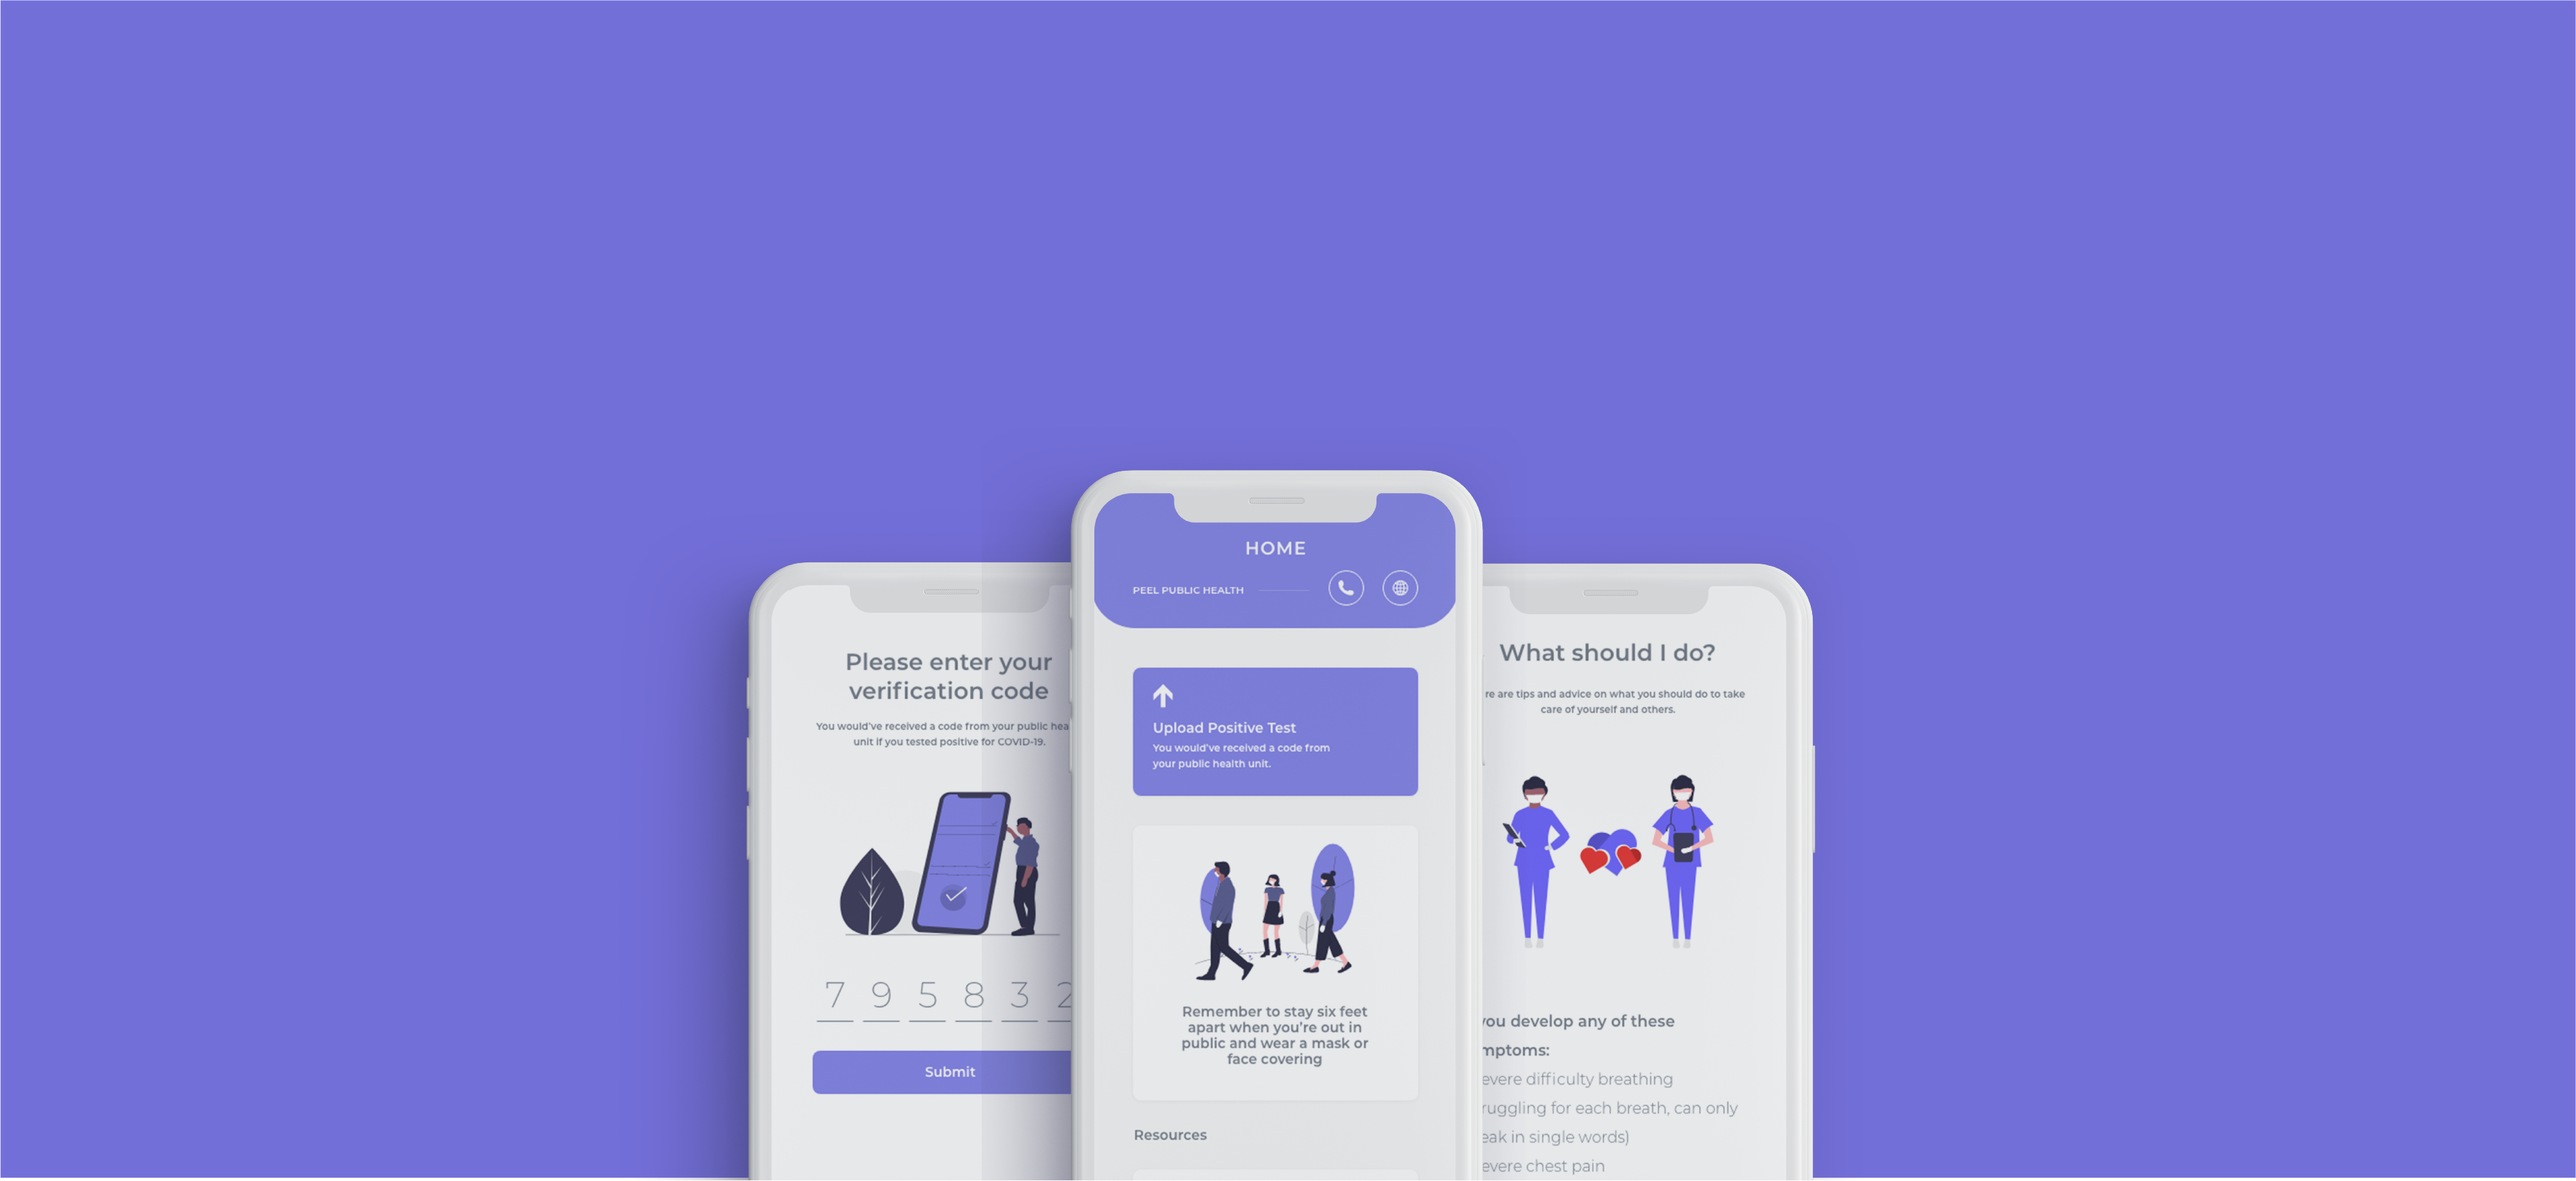
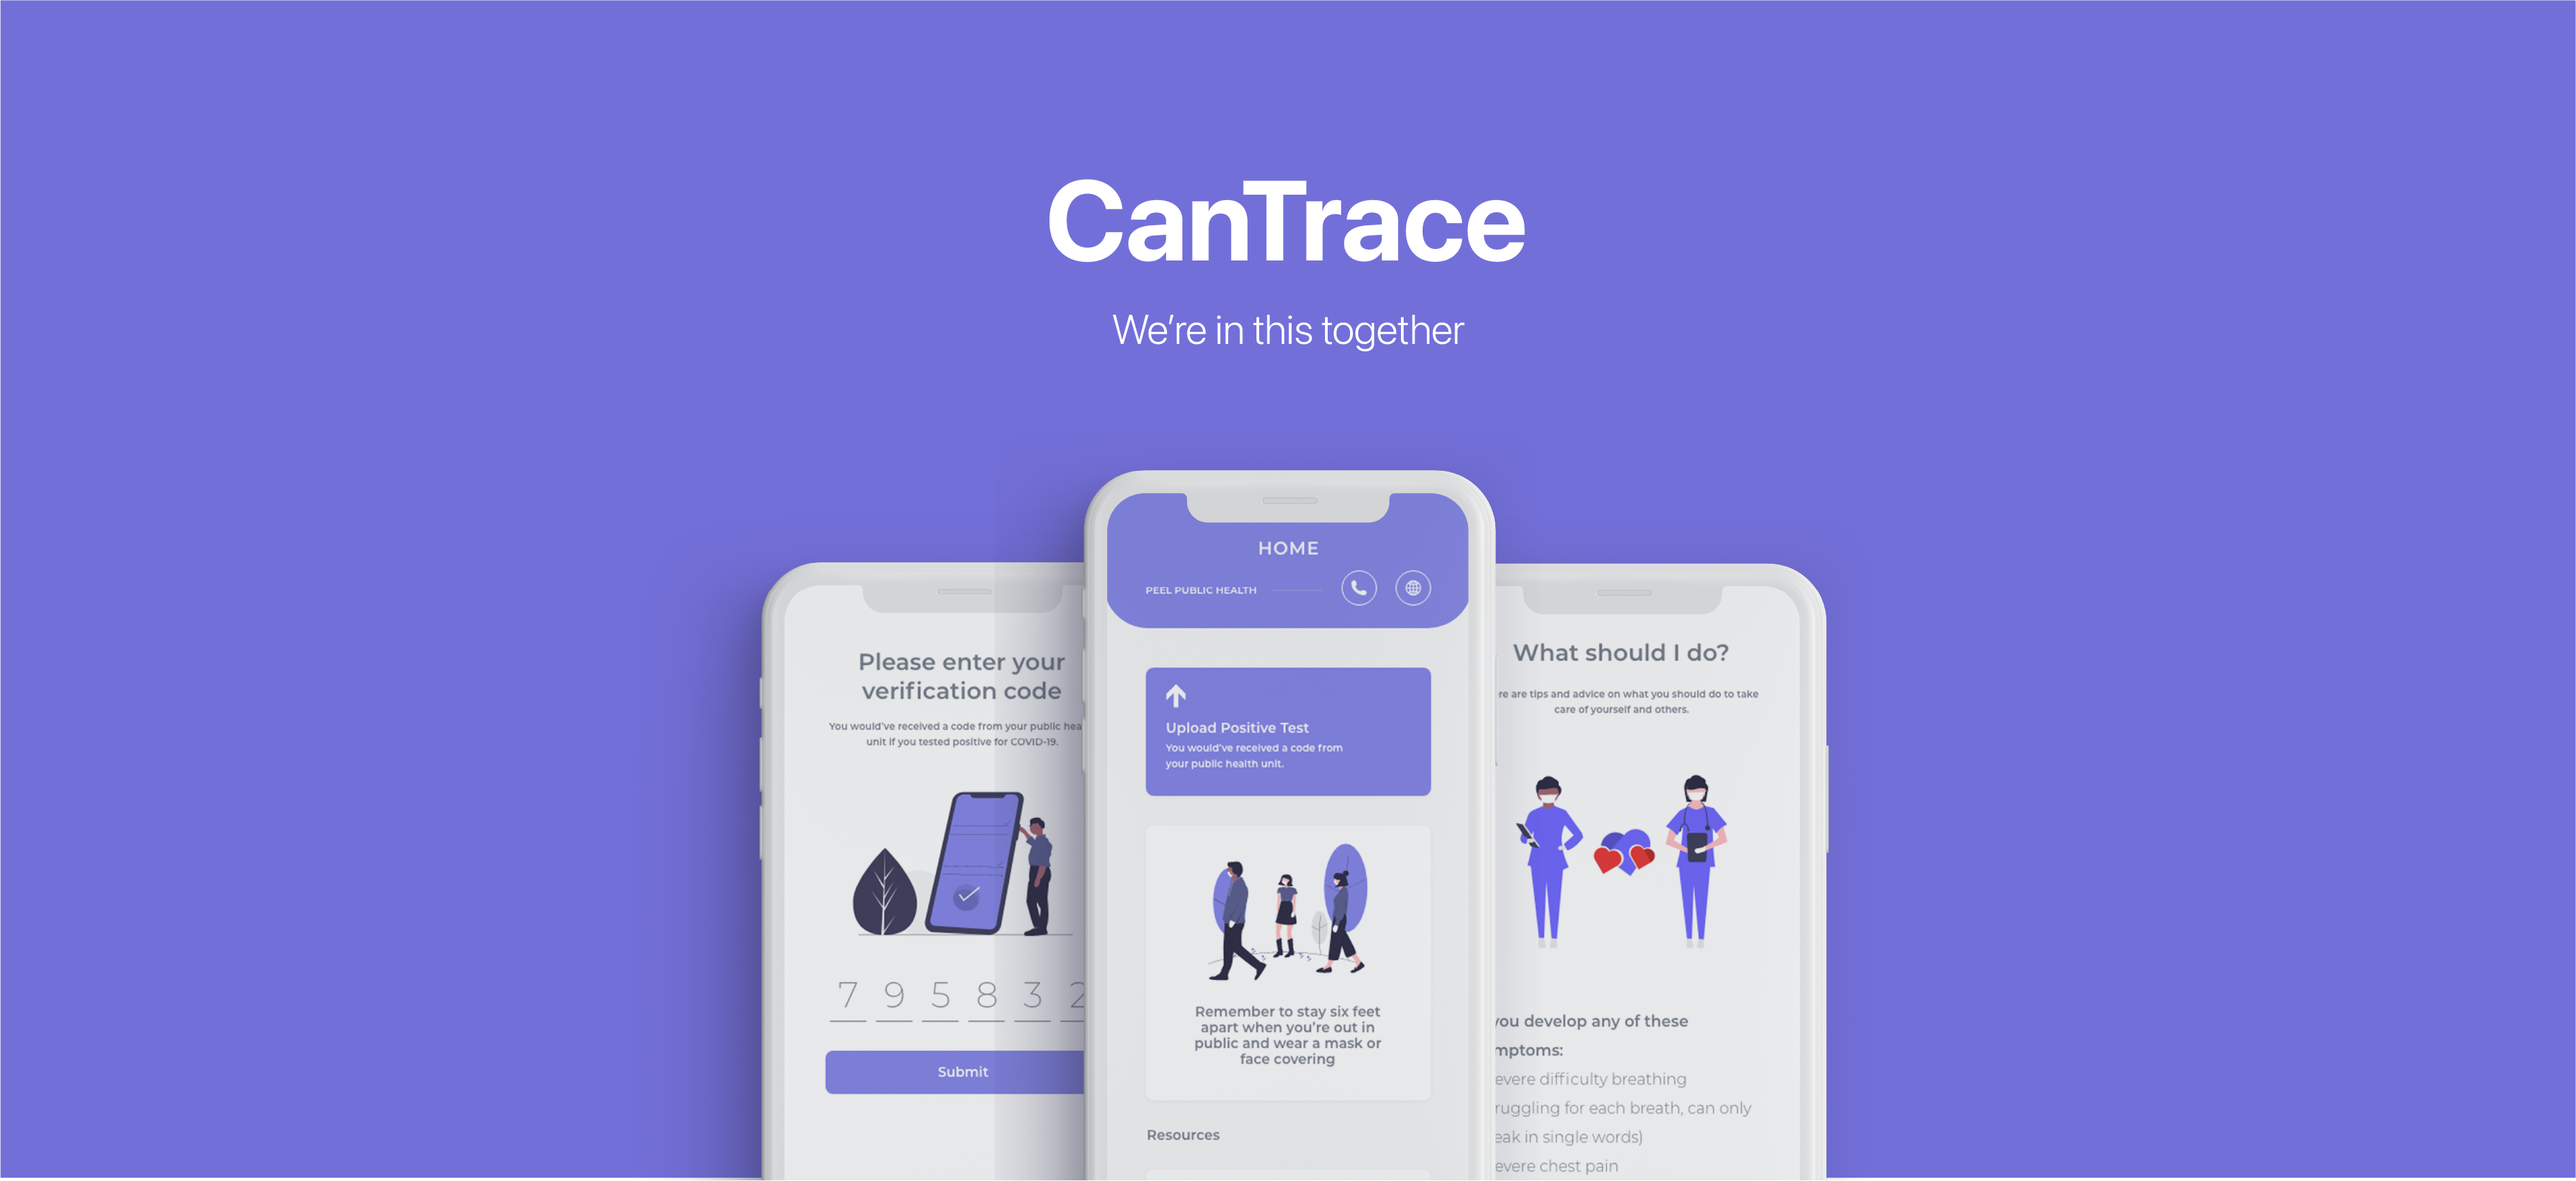
cs revamp

diff --git a/cantrace.css b/cantrace.css
@@ -55,26 +55,6 @@ h4 {
     color: #737B85;
 }
 
-.headtitle{
-    position: absolute;
-    margin-top: 8%;
-    font-size: 4vw;
-    width: 97%;
-    text-align: center;
-    color: white;
-    
-}
-
-.headsub{
-    position: absolute;
-    margin-top: 13%;
-    font-size: 1.25vw;
-    font-weight: 300;
-    width: 97%;
-    text-align: center;
-    color: white;
-    
-}
 
 .headimg {
     max-width: 100%;
@@ -167,12 +147,14 @@ h4 {
 
 .asset4{
     
-    width: 100%;
+    max-width: 100%;
+
 }
 
 .center {
     text-align: center;
 }
+
 
 
 
@@ -443,15 +425,6 @@ a.active, a:hover{
     .headimg{
         margin-top: 50px;
     }
-    .headtitle{
-        font-size: 5vw;
-        margin-top:75px;
-    }
-    
-    .headsub{
-        font-size: 2.5vw;
-        margin-top: 110px;
-    }
     
         .contain3{
     background-color: #f2f2f2;
@@ -478,7 +451,7 @@ a.active, a:hover{
 }
     
     .landingvideo {
-    margin-top: 5vh; 
+    margin-top: 5vh;
 }
 
 
@@ -512,6 +485,7 @@ h4 {
 
     color: #737B85;
 }
+    
  
 }
 

diff --git a/cantrace.html b/cantrace.html
@@ -73,8 +73,6 @@
             
             
             <div class="col-12">
-            <h1 class="headtitle">CanTrace</h1>
-                <h2 class="headsub">We're in this together</h2>
             <img class="headimg" src="cantrace/CanTrace%20Head.png">
             
             </div>
@@ -270,9 +268,10 @@
                     <h1>USER RESEARCH</h1>
                     <h2>Research takeaways</h2>
                     
-                    <div class="row contentMargin ">
-                        <img class="asset4 ml-4" src="cantrace/Asset%2015.png">
-                        
+                    <div class="row contentMargin">
+                        <div class="col-12">
+                        <img class="asset4 ml-3" src="cantrace/Asset%2015.png">
+                        </div>
                     </div>
                 </div>      
             </div>
